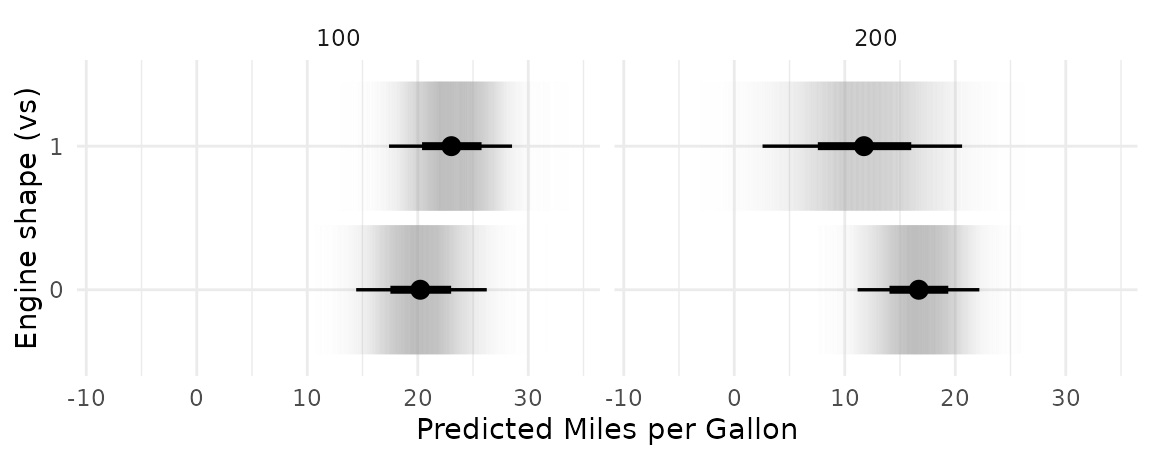
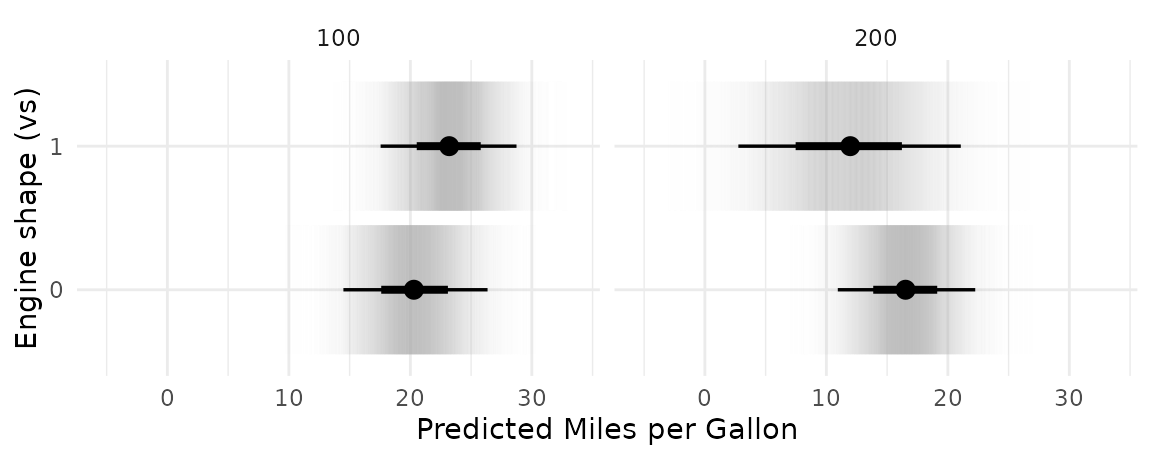
Built site for marginaleffects: 0.2.0@7ee6d59

diff --git a/articles/brms.html b/articles/brms.html
@@ -102,9 +102,9 @@
 <span class="fu"><a href="https://rdrr.io/r/base/summary.html">summary</a></span><span class="op">(</span><span class="va">mfx</span><span class="op">)</span>
 <span class="co">#&gt; Average marginal effects </span>
 <span class="co">#&gt;       type Term    Effect</span>
-<span class="co">#&gt; 1 response   hp  0.008994</span>
-<span class="co">#&gt; 2 response  mpg  0.193055</span>
-<span class="co">#&gt; 3 response   vs -0.138449</span>
+<span class="co">#&gt; 1 response   hp  0.008939</span>
+<span class="co">#&gt; 2 response  mpg  0.191646</span>
+<span class="co">#&gt; 3 response   vs -0.131792</span>
 <span class="co">#&gt; </span>
 <span class="co">#&gt; Model type:  brmsfit </span>
 <span class="co">#&gt; Prediction type:  response</span></code></pre></div>
@@ -112,19 +112,19 @@
 <div class="sourceCode" id="cb5"><pre class="downlit sourceCode r">
 <code class="sourceCode R"><span class="fu"><a href="../reference/marginaleffects.html">marginaleffects</a></span><span class="op">(</span><span class="va">mod</span>, newdata <span class="op">=</span> <span class="fu"><a href="../reference/typical.html">typical</a></span><span class="op">(</span>hp <span class="op">=</span> <span class="fu"><a href="https://rdrr.io/r/base/c.html">c</a></span><span class="op">(</span><span class="fl">110</span>, <span class="fl">130</span><span class="op">)</span><span class="op">)</span><span class="op">)</span>
 <span class="co">#&gt;   rowid     type term         dydx      conf.low  conf.high      mpg     vs  hp</span>
-<span class="co">#&gt; 1     1 response   hp  0.005062418  5.438801e-08 0.01543354 20.09062 0.4375 110</span>
-<span class="co">#&gt; 2     2 response   hp  0.028804472  2.212520e-03 0.06174098 20.09062 0.4375 130</span>
-<span class="co">#&gt; 3     1 response  mpg  0.125240222  1.312944e-06 0.38150433 20.09062 0.4375 110</span>
-<span class="co">#&gt; 4     2 response  mpg  0.670680746  8.695723e-02 1.39599524 20.09062 0.4375 130</span>
-<span class="co">#&gt; 5     1 response   vs -0.062052844 -4.757080e-01 0.21662912 20.09062 0.4375 110</span>
-<span class="co">#&gt; 6     2 response   vs -0.058560057 -9.940938e-01 0.95145972 20.09062 0.4375 130</span>
-<span class="co">#&gt;    predicted</span>
-<span class="co">#&gt; 1 0.06380866</span>
-<span class="co">#&gt; 2 0.36366461</span>
-<span class="co">#&gt; 3 0.06380866</span>
-<span class="co">#&gt; 4 0.36366461</span>
-<span class="co">#&gt; 5 0.06380866</span>
-<span class="co">#&gt; 6 0.36366461</span></code></pre></div>
+<span class="co">#&gt; 1     1 response   hp  0.005277499  5.713093e-08 0.01563132 20.09062 0.4375 110</span>
+<span class="co">#&gt; 2     2 response   hp  0.028246899  1.623075e-03 0.06104133 20.09062 0.4375 130</span>
+<span class="co">#&gt; 3     1 response  mpg  0.130211979  1.363326e-06 0.38933348 20.09062 0.4375 110</span>
+<span class="co">#&gt; 4     2 response  mpg  0.656929024  6.826836e-02 1.37896108 20.09062 0.4375 130</span>
+<span class="co">#&gt; 5     1 response   vs -0.061686799 -4.848518e-01 0.25421129 20.09062 0.4375 110</span>
+<span class="co">#&gt; 6     2 response   vs -0.059948294 -1.000659e+00 0.96182273 20.09062 0.4375 130</span>
+<span class="co">#&gt;   predicted</span>
+<span class="co">#&gt; 1 0.0663215</span>
+<span class="co">#&gt; 2 0.3654657</span>
+<span class="co">#&gt; 3 0.0663215</span>
+<span class="co">#&gt; 4 0.3654657</span>
+<span class="co">#&gt; 5 0.0663215</span>
+<span class="co">#&gt; 6 0.3654657</span></code></pre></div>
 <p>The <code>get_posterior_draws</code> produces a dataset with <code>drawid</code> and <code>draw</code> columns.</p>
 <div class="sourceCode" id="cb6"><pre class="downlit sourceCode r">
 <code class="sourceCode R"><span class="va">draws</span> <span class="op">&lt;-</span> <span class="fu"><a href="../reference/get_posterior_draws.html">get_posterior_draws</a></span><span class="op">(</span><span class="va">mfx</span><span class="op">)</span>
@@ -133,20 +133,20 @@
 <span class="co">#&gt; [1] 384000     13</span>
 
 <span class="fu"><a href="https://rdrr.io/r/utils/head.html">head</a></span><span class="op">(</span><span class="va">draws</span><span class="op">)</span>
-<span class="co">#&gt;   drawid         draw rowid     type term         dydx     conf.low   conf.high</span>
-<span class="co">#&gt; 1      1 0.6085334785     1 response   hp 0.0264821695 2.428567e-05 0.058938094</span>
-<span class="co">#&gt; 2      1 0.6085334785     2 response   hp 0.0264821695 2.428567e-05 0.058938094</span>
-<span class="co">#&gt; 3      1 0.6445612115     3 response   hp 0.0313518750 2.353663e-03 0.064677864</span>
-<span class="co">#&gt; 4      1 0.1994017037     4 response   hp 0.0276982247 6.189839e-05 0.061728891</span>
-<span class="co">#&gt; 5      1 0.7764987222     5 response   hp 0.0300656034 3.301046e-03 0.063767414</span>
-<span class="co">#&gt; 6      1 0.0000221999     6 response   hp 0.0003024188 1.154791e-17 0.001633714</span>
+<span class="co">#&gt;   drawid        draw rowid     type term         dydx     conf.low  conf.high</span>
+<span class="co">#&gt; 1      1 0.438789477     1 response   hp 0.0261983668 1.165462e-04 0.06190301</span>
+<span class="co">#&gt; 2      1 0.438789477     2 response   hp 0.0261983668 1.165462e-04 0.06190301</span>
+<span class="co">#&gt; 3      1 0.196287652     3 response   hp 0.0305875419 3.288367e-03 0.06397709</span>
+<span class="co">#&gt; 4      1 0.170794272     4 response   hp 0.0271266889 8.561994e-05 0.06176859</span>
+<span class="co">#&gt; 5      1 0.527052745     5 response   hp 0.0298330859 3.246232e-03 0.06347205</span>
+<span class="co">#&gt; 6      1 0.002289656     6 response   hp 0.0003730318 1.297545e-18 0.00191616</span>
 <span class="co">#&gt;   am  mpg vs  hp   predicted</span>
-<span class="co">#&gt; 1  1 21.0  0 110 0.600646231</span>
-<span class="co">#&gt; 2  1 21.0  0 110 0.600646231</span>
-<span class="co">#&gt; 3  1 22.8  1  93 0.469913093</span>
-<span class="co">#&gt; 4  0 21.4  1 110 0.333913826</span>
-<span class="co">#&gt; 5  0 18.7  0 175 0.525744077</span>
-<span class="co">#&gt; 6  0 18.1  1 105 0.004290362</span></code></pre></div>
+<span class="co">#&gt; 1  1 21.0  0 110 0.595239331</span>
+<span class="co">#&gt; 2  1 21.0  0 110 0.595239331</span>
+<span class="co">#&gt; 3  1 22.8  1  93 0.468830517</span>
+<span class="co">#&gt; 4  0 21.4  1 110 0.336405547</span>
+<span class="co">#&gt; 5  0 18.7  0 175 0.525139493</span>
+<span class="co">#&gt; 6  0 18.1  1 105 0.004794296</span></code></pre></div>
 <p>We can use this dataset to plot our results. For example, to plot the posterior density of the marginal effect when the <code>vs</code> variable is equal to 0 or 1:</p>
 <div class="sourceCode" id="cb7"><pre class="downlit sourceCode r">
 <code class="sourceCode R"><span class="fu"><a href="../reference/marginaleffects.html">marginaleffects</a></span><span class="op">(</span><span class="va">mod</span>, variables <span class="op">=</span> <span class="st">"mpg"</span>, newdata <span class="op">=</span> <span class="fu"><a href="../reference/typical.html">typical</a></span><span class="op">(</span>vs <span class="op">=</span> <span class="fl">0</span><span class="op">:</span><span class="fl">1</span><span class="op">)</span><span class="op">)</span> |&gt;

diff --git a/articles/mfx.html b/articles/mfx.html
@@ -259,11 +259,11 @@
     <span class="fu"><a href="https://dplyr.tidyverse.org/reference/mutate.html">mutate</a></span><span class="op">(</span>truth <span class="op">=</span> <span class="fl">1</span> <span class="op">+</span> <span class="fl">4</span> <span class="op">*</span> <span class="va">x</span><span class="op">)</span> <span class="op"><a href="https://magrittr.tidyverse.org/reference/pipe.html">%&gt;%</a></span>
     <span class="fu"><a href="https://dplyr.tidyverse.org/reference/select.html">select</a></span><span class="op">(</span><span class="va">dydx</span>, <span class="va">truth</span><span class="op">)</span>
 <span class="co">#&gt;        dydx truth</span>
-<span class="co">#&gt; 1 -6.985201    -7</span>
-<span class="co">#&gt; 2 -2.991074    -3</span>
-<span class="co">#&gt; 3  1.003052     1</span>
-<span class="co">#&gt; 4  4.997178     5</span>
-<span class="co">#&gt; 5  8.991304     9</span></code></pre></div>
+<span class="co">#&gt; 1 -7.015951    -7</span>
+<span class="co">#&gt; 2 -3.006583    -3</span>
+<span class="co">#&gt; 3  1.002784     1</span>
+<span class="co">#&gt; 4  5.012151     5</span>
+<span class="co">#&gt; 5  9.021519     9</span></code></pre></div>
 <p>We can also plot the result with the <code>plot_cme</code> function (see section below):</p>
 <div class="sourceCode" id="cb12"><pre class="downlit sourceCode r">
 <code class="sourceCode R"><span class="fu"><a href="../reference/plot_cme.html">plot_cme</a></span><span class="op">(</span><span class="va">mod</span>, effect <span class="op">=</span> <span class="st">"x"</span>, condition <span class="op">=</span> <span class="st">"x"</span><span class="op">)</span></code></pre></div>
